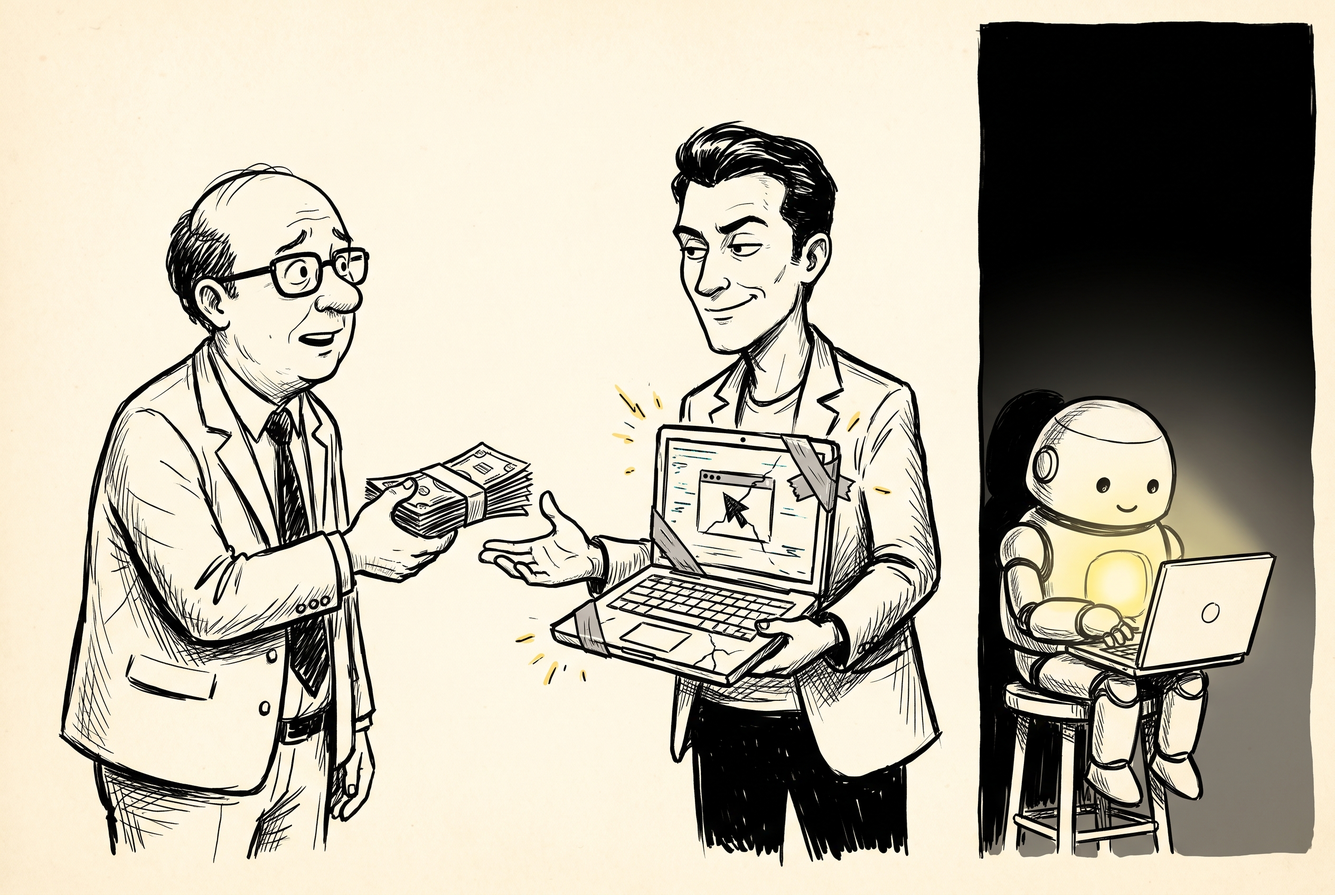
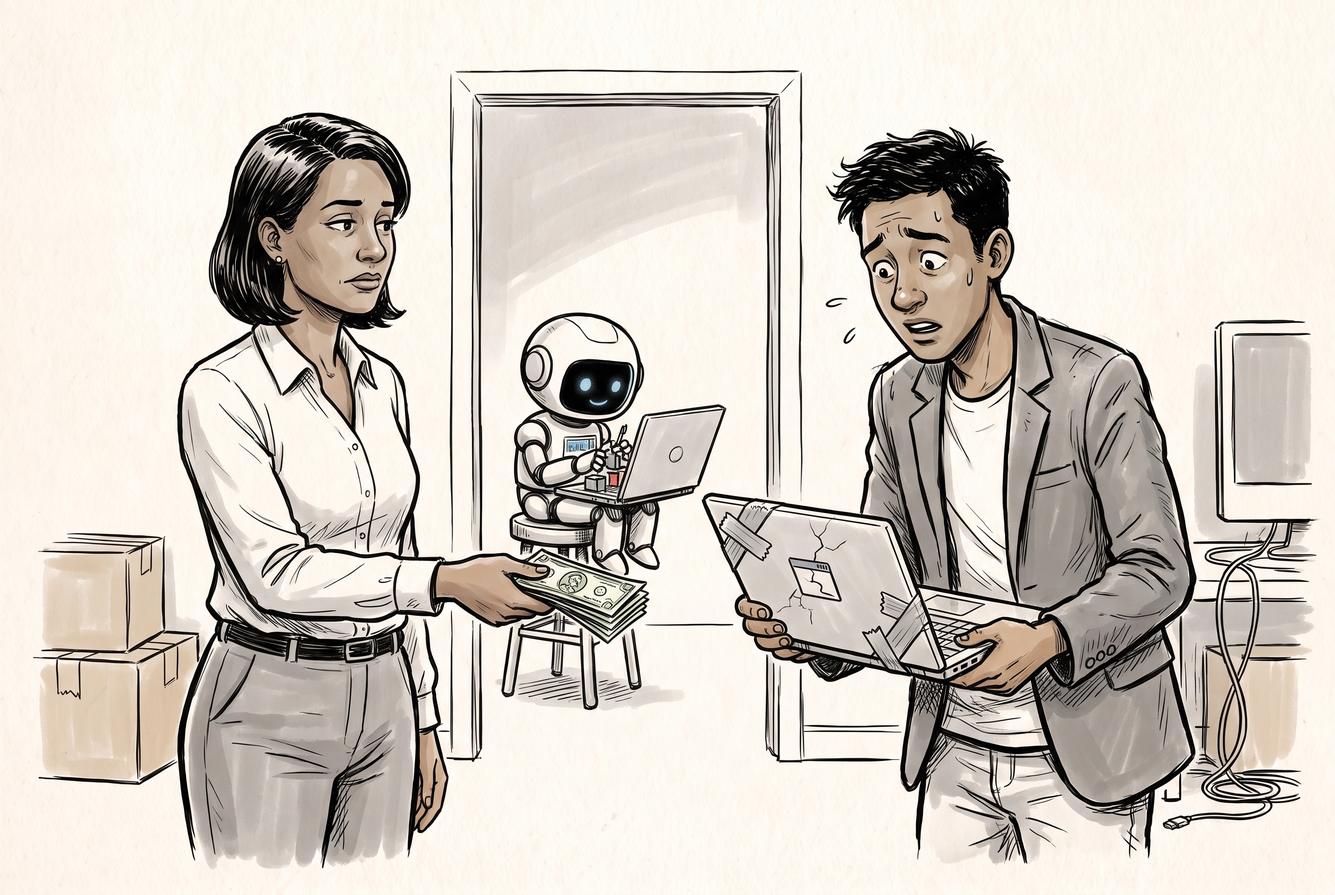
LI: bip-vendors caricature regenerated - constructive framing, image_blocked cleared
Paul approved the regenerate option. New caricature: earnest overwhelmed young vendor (no smirk) presenting the taped laptop, composed mid-30s founder handing payment, glowing robot building unnoticed in the doorway. Style-matched via the claude-code-trust caricature as reference so the old image's mocking elements never reached the model. Content-only diff: hugo-build gate + board eyeball apply; the asset is outside the production build.

diff --git a/linkedin-posts/personal/bip-vendors-still-burning-founders.md b/linkedin-posts/personal/bip-vendors-still-burning-founders.md
@@ -7,7 +7,6 @@ author: paul-keen
 voice: personal-first-person
 icp_test: Do non-technical founders recognize the "paid for something I didn't need yet" waste, and share their own?
 image: "assets/bip-vendors-still-burning-founders.jpg"
-image_blocked: "DO NOT ATTACH the current caricature - it mocks the founder (doddering old man) and the vendor (smirking con-man), contradicting the post's no-judgment framing. Regenerate per notes before scheduling, or post text-only (Format D)."
 first_comment: |
   (value post - no link; reply-CTA only)
 status: approved
@@ -30,11 +29,13 @@ notes: |
   anchored validate-before-build Aug 13 + reaction-vibe-coding Sep 1, per
   cross-post scan); opener flipped to personal-witness (Aug 26 neighbor is
   observation-led; also kills the "AI matured" premise echo with Aug 25).
-  OPEN ISSUE - IMAGE (cold-eyes, blocking call for Paul): the caricature shows
-  a smirking con-man vendor fleecing a doddering elderly founder; contradicts
-  the constructive framing, condescends to the ICP, and reads as fraud (not
-  inexperience) to the agency audience. Recommend regenerating: earnest-but-
-  overwhelmed young vendor, founder not elderly/naive, robot unchanged.
+  IMAGE REGENERATED 2026-08-17 (Paul approved regenerate option): earnest
+  overwhelmed young vendor (no smirk) presenting the taped/cracked laptop,
+  composed mid-30s founder handing payment (not elderly/naive), glowing robot
+  building quietly in the doorway. Art skill / nano-banana-pro, style-matched
+  via the claude-code-trust caricature as reference (NOT the old image - a
+  reference beats negative prompts, so the bad elements never reached the
+  model). Cold-eyes image concern resolved.
 ---
 
 It's hard to watch a founder hand over five figures and months of runway for a build that barely runs.

diff --git a/linkedin-posts/content-plan.md b/linkedin-posts/content-plan.md
@@ -68,7 +68,7 @@ sorts by each post's `proposed_for`, so this table = the live board order.
 | Aug 19 | teach | `course-promo/week1-tue-founding-hypothesis` | course *(promo)* | **scheduled** ✓ |
 | Aug 25 Tue | reaction | `personal/reaction-claude-code-trust` | none | **approved** (Paul, board 2026-08-17) |
 | Aug 26 Wed | opinion | `course-promo/sidepath-status-meetings-friday-demo` | course *(1st comment)* | **approved** (Paul, board 2026-08-17) |
-| Sep 2 Wed | build-in-public | `personal/bip-vendors-still-burning-founders` | none | **approved** (Paul, board 2026-08-17, post-swarm rewrite) - image decision still open (caricature mocks founder/vendor, see frontmatter notes) |
+| Sep 2 Wed | build-in-public | `personal/bip-vendors-still-burning-founders` | none | **approved** (Paul, board 2026-08-17, post-swarm rewrite; caricature regenerated same day - no open items) |
 | Sep 3 Thu | teach | `course-promo/week1-thu-price-before-product` | none | **approved** (Paul, board 2026-08-17) |
 | Sep 8 Tue | reaction | `personal/reaction-vibe-coding-front-back` | none | **approved** (Paul, board 2026-08-17) |
 | Sep 9 Wed | opinion | `personal/opinion-permission-to-fix` | none | **approved** (Paul, board 2026-08-17; pulled forward from Oct 15) |
